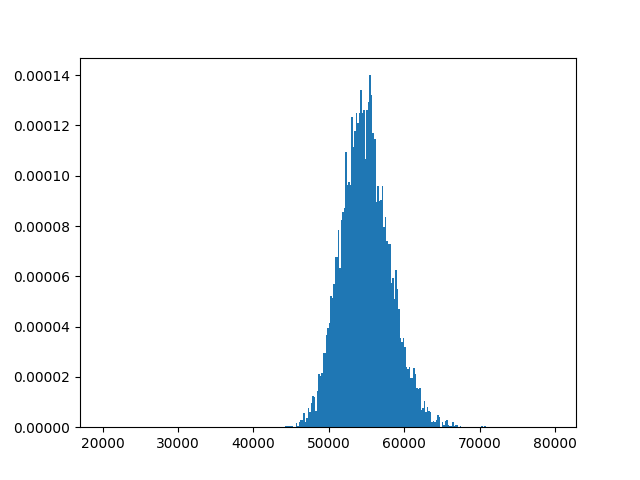
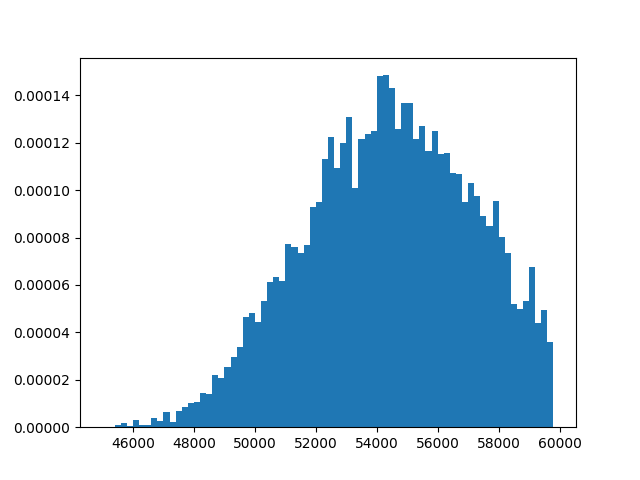
Made all cool normal graphs

diff --git a/lab5/median_income_graphing.py b/lab5/median_income_graphing.py
@@ -35,11 +35,11 @@ def central_limit_histogram(incomes, samples, trials, limit1, limit2, bin, filen
     graphing.makeHist(sampleMeans, np.arange(limit1,limit2,bin), (str(directory)+'/'+filen))
 
 if __name__ == '__main__':
-    central_limit_histogram(incomes, 50, 100, 20000, 80000, 200, "normal50.png", "la_incomes_normals")
-    central_limit_histogram(incomes, 100, 100, 20000, 80000, 200, "normal100.png", "la_incomes_normals")
+    central_limit_histogram(incomes, 50, 100, 45000, 60000, 200, "normal50.png", "la_incomes_normals")
+    central_limit_histogram(incomes, 100, 100, 45000, 60000, 200, "normal100.png", "la_incomes_normals")
 
-    central_limit_histogram(incomes, 500, 100, 20000, 80000, 200, "normal500.png", "la_incomes_normals")
-    central_limit_histogram(incomes, 1000, 100, 20000, 80000, 200, "normal1000.png", "la_incomes_normals")
+    central_limit_histogram(incomes, 500, 100, 45000, 60000, 200, "normal500.png", "la_incomes_normals")
+    central_limit_histogram(incomes, 1000, 100, 45000, 60000, 200, "normal1000.png", "la_incomes_normals")
     
-    central_limit_histogram(incomes, 5000, 100, 20000, 80000, 200, "normal5000.png", "la_incomes_normals")
-    central_limit_histogram(incomes, 10000, 100, 20000, 80000, 200, "normal10000.png", "la_incomes_normals")
+    central_limit_histogram(incomes, 5000, 100, 45000, 60000, 200, "normal5000.png", "la_incomes_normals")
+    central_limit_histogram(incomes, 10000, 100, 45000, 60000, 200, "normal10000.png", "la_incomes_normals")
